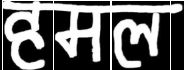
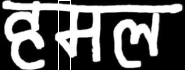
Standard deviation

diff --git a/copy_of_charactersegementation.py b/copy_of_charactersegementation.py
@@ -21,11 +21,10 @@ class Recog:
             loaded_model.save('middle.hdf5')
             loaded_model = load_model('middle.hdf5')
             roi = cv2.resize(img, (29, 29), interpolation=cv2.INTER_AREA)
-            imgxwithpadding  = np.zeros((32,32),np.uint8)
-            imgxwithpadding[1:30,1:30] = roi
+            imgxwithpadding = np.zeros((32, 32), np.uint8)
+            imgxwithpadding[1:30, 1:30] = roi
             roi = imgxwithpadding
-            plt.imshow(roi)
-            plt.show()
+
             roi = np.array(roi)
             roi.reshape(1, 1024)
             prediction = loaded_model.predict(roi.reshape(1, 1024))
@@ -43,43 +42,55 @@ class Recog:
             segment = cv2.erode(segment, (3, 3), 1)
             lbl = prediction(segment)
             pred_lbl += lbl
-            plt.imshow(segment)
-            plt.show()
+
             return pred_lbl
 
         return classifier(img)
 
-    def Segmentation(self, ximg,counter):
-        keys2,keys,  ximg = self.getVerticalProjectionProfile(ximg)
+    def Segmentation(self, ximg, counter):
+        keys2, keys, ximg = self.getVerticalProjectionProfile(ximg)
         copyForSegmentationShow = ximg.copy()
         char = ""
         segmentedimages = []
         for key in range(0, len(keys) - 1):
-            imgx = ximg[0:ximg.shape[0], keys[key]-2:(keys2[key+1] + keys[key+1])//2+4]
-            cv2.rectangle(copyForSegmentationShow, (keys[key]-2,0), ((keys2[key+1] + keys[key+1])//2+4,ximg.shape[0]), (255, 0,0), 1)
+            imgx = ximg[0:ximg.shape[0], keys[key] - 2:(keys2[key + 1] + keys[key + 1]) // 2 + 4]
+            cv2.rectangle(copyForSegmentationShow, (keys[key] - 2, 0),
+                          ((keys2[key + 1] + keys[key + 1]) // 2 + 4, ximg.shape[0]), (255, 0, 0), 1)
             sum = 0
             for i in imgx:
                 for j in imgx:
                     sum += j
-            if(len(sum) < 20):
+            if (len(sum) < 20):
                 continue
-            recognizedcharacter  = self.Recognition(imgx)
+            recognizedcharacter = self.Recognition(imgx)
             if recognizedcharacter == '८':
                 pass
             else:
                 char += recognizedcharacter
 
             segmentedimages.append(imgx)
-        cv2.imwrite("character segmentation/first"+ str(counter)+".png",copyForSegmentationShow)
+        cv2.imwrite("character segmentation/first" + str(counter) + ".png", copyForSegmentationShow)
         return char
 
     def getVerticalProjectionProfile(self, ximg):
-        ###################
         ximg = cv2.bitwise_not(ximg)
         ximg = cv2.dilate(ximg, np.ones((3, 3), np.uint8))
-        org  = ximg.copy()
+        org = ximg.copy()
         kernel = np.ones((5, 5), np.float32) / 30
         ximg = cv2.filter2D(ximg, -1, kernel)
+        ximg = cv2.rotate(ximg,cv2.ROTATE_90_CLOCKWISE)
+        std = {}
+        positions  = {i:[] for i in range(0,ximg.shape[0])}
+        plt.imshow(ximg)
+        plt.show()
+        for i in range(0,len(ximg)):
+            for j in range(0,len(ximg[0])):
+                if ximg[i][j] > 100:
+                    positions[i].append(j)
+
+        for rowkey in positions:
+            std[rowkey] = np.std(positions[rowkey])
+        print(std)
         dict = {}
         for i in range(0, len(ximg[0])):
             sum = 0
@@ -87,9 +98,9 @@ class Recog:
                 if ximg[j][i] > 100:
                     sum += 1
             dict[i] = sum
-        x = dict.values()
-        x = list(set(x))
-        greater_than_threshold = {k: v for k, v in dict.items() if v >= max(x[0:5])*1.25}
+        x = list(set(dict.values()))
+        print(dict)
+        greater_than_threshold = {k: v for k, v in dict.items() if v >= max(x[0:5]) * 1.25}
         current_key = min(greater_than_threshold.keys())
         current_part = {current_key: greater_than_threshold[current_key]}
         parts = [current_part]
@@ -105,7 +116,7 @@ class Recog:
                 parts.append(current_part)
         keys.append(ximg.shape[1])
         keys2 = []
-        for key in sorted(greater_than_threshold.keys(),reverse=True):
+        for key in sorted(greater_than_threshold.keys(), reverse=True):
             if key == current_key - 1:
                 current_key = key
                 current_part[key] = greater_than_threshold[key]
@@ -116,4 +127,4 @@ class Recog:
                 parts.append(current_part)
         keys2.append(0)
         ximg = org
-        return  keys2[::-1],keys, ximg
+        return keys2[::-1], keys, ximg
